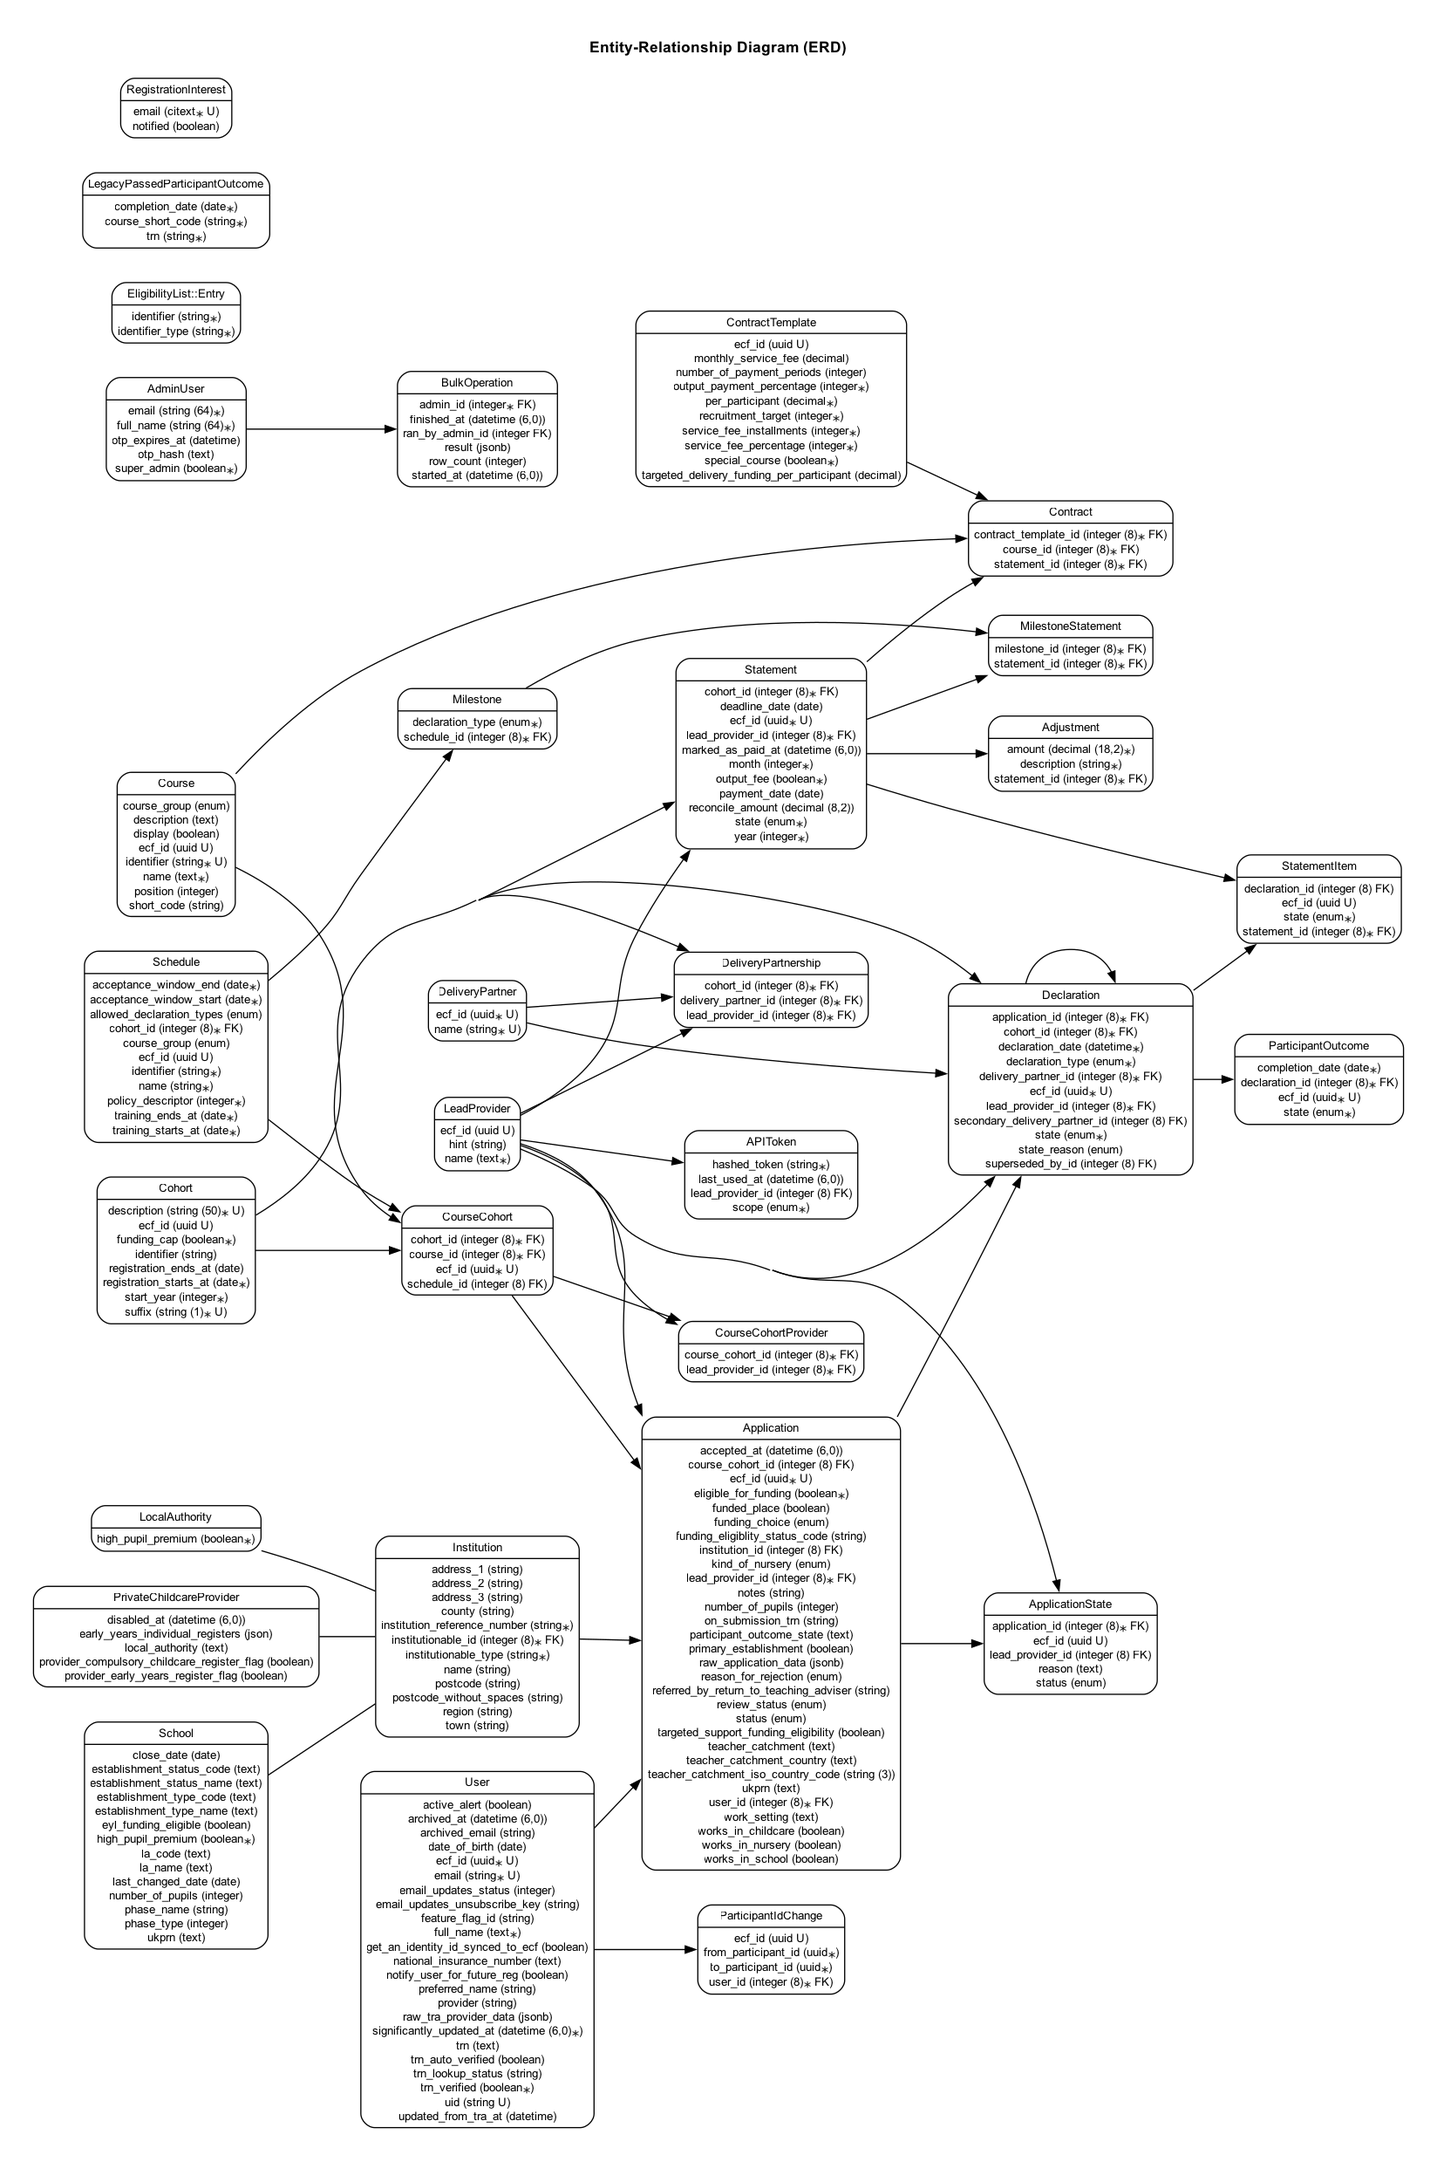
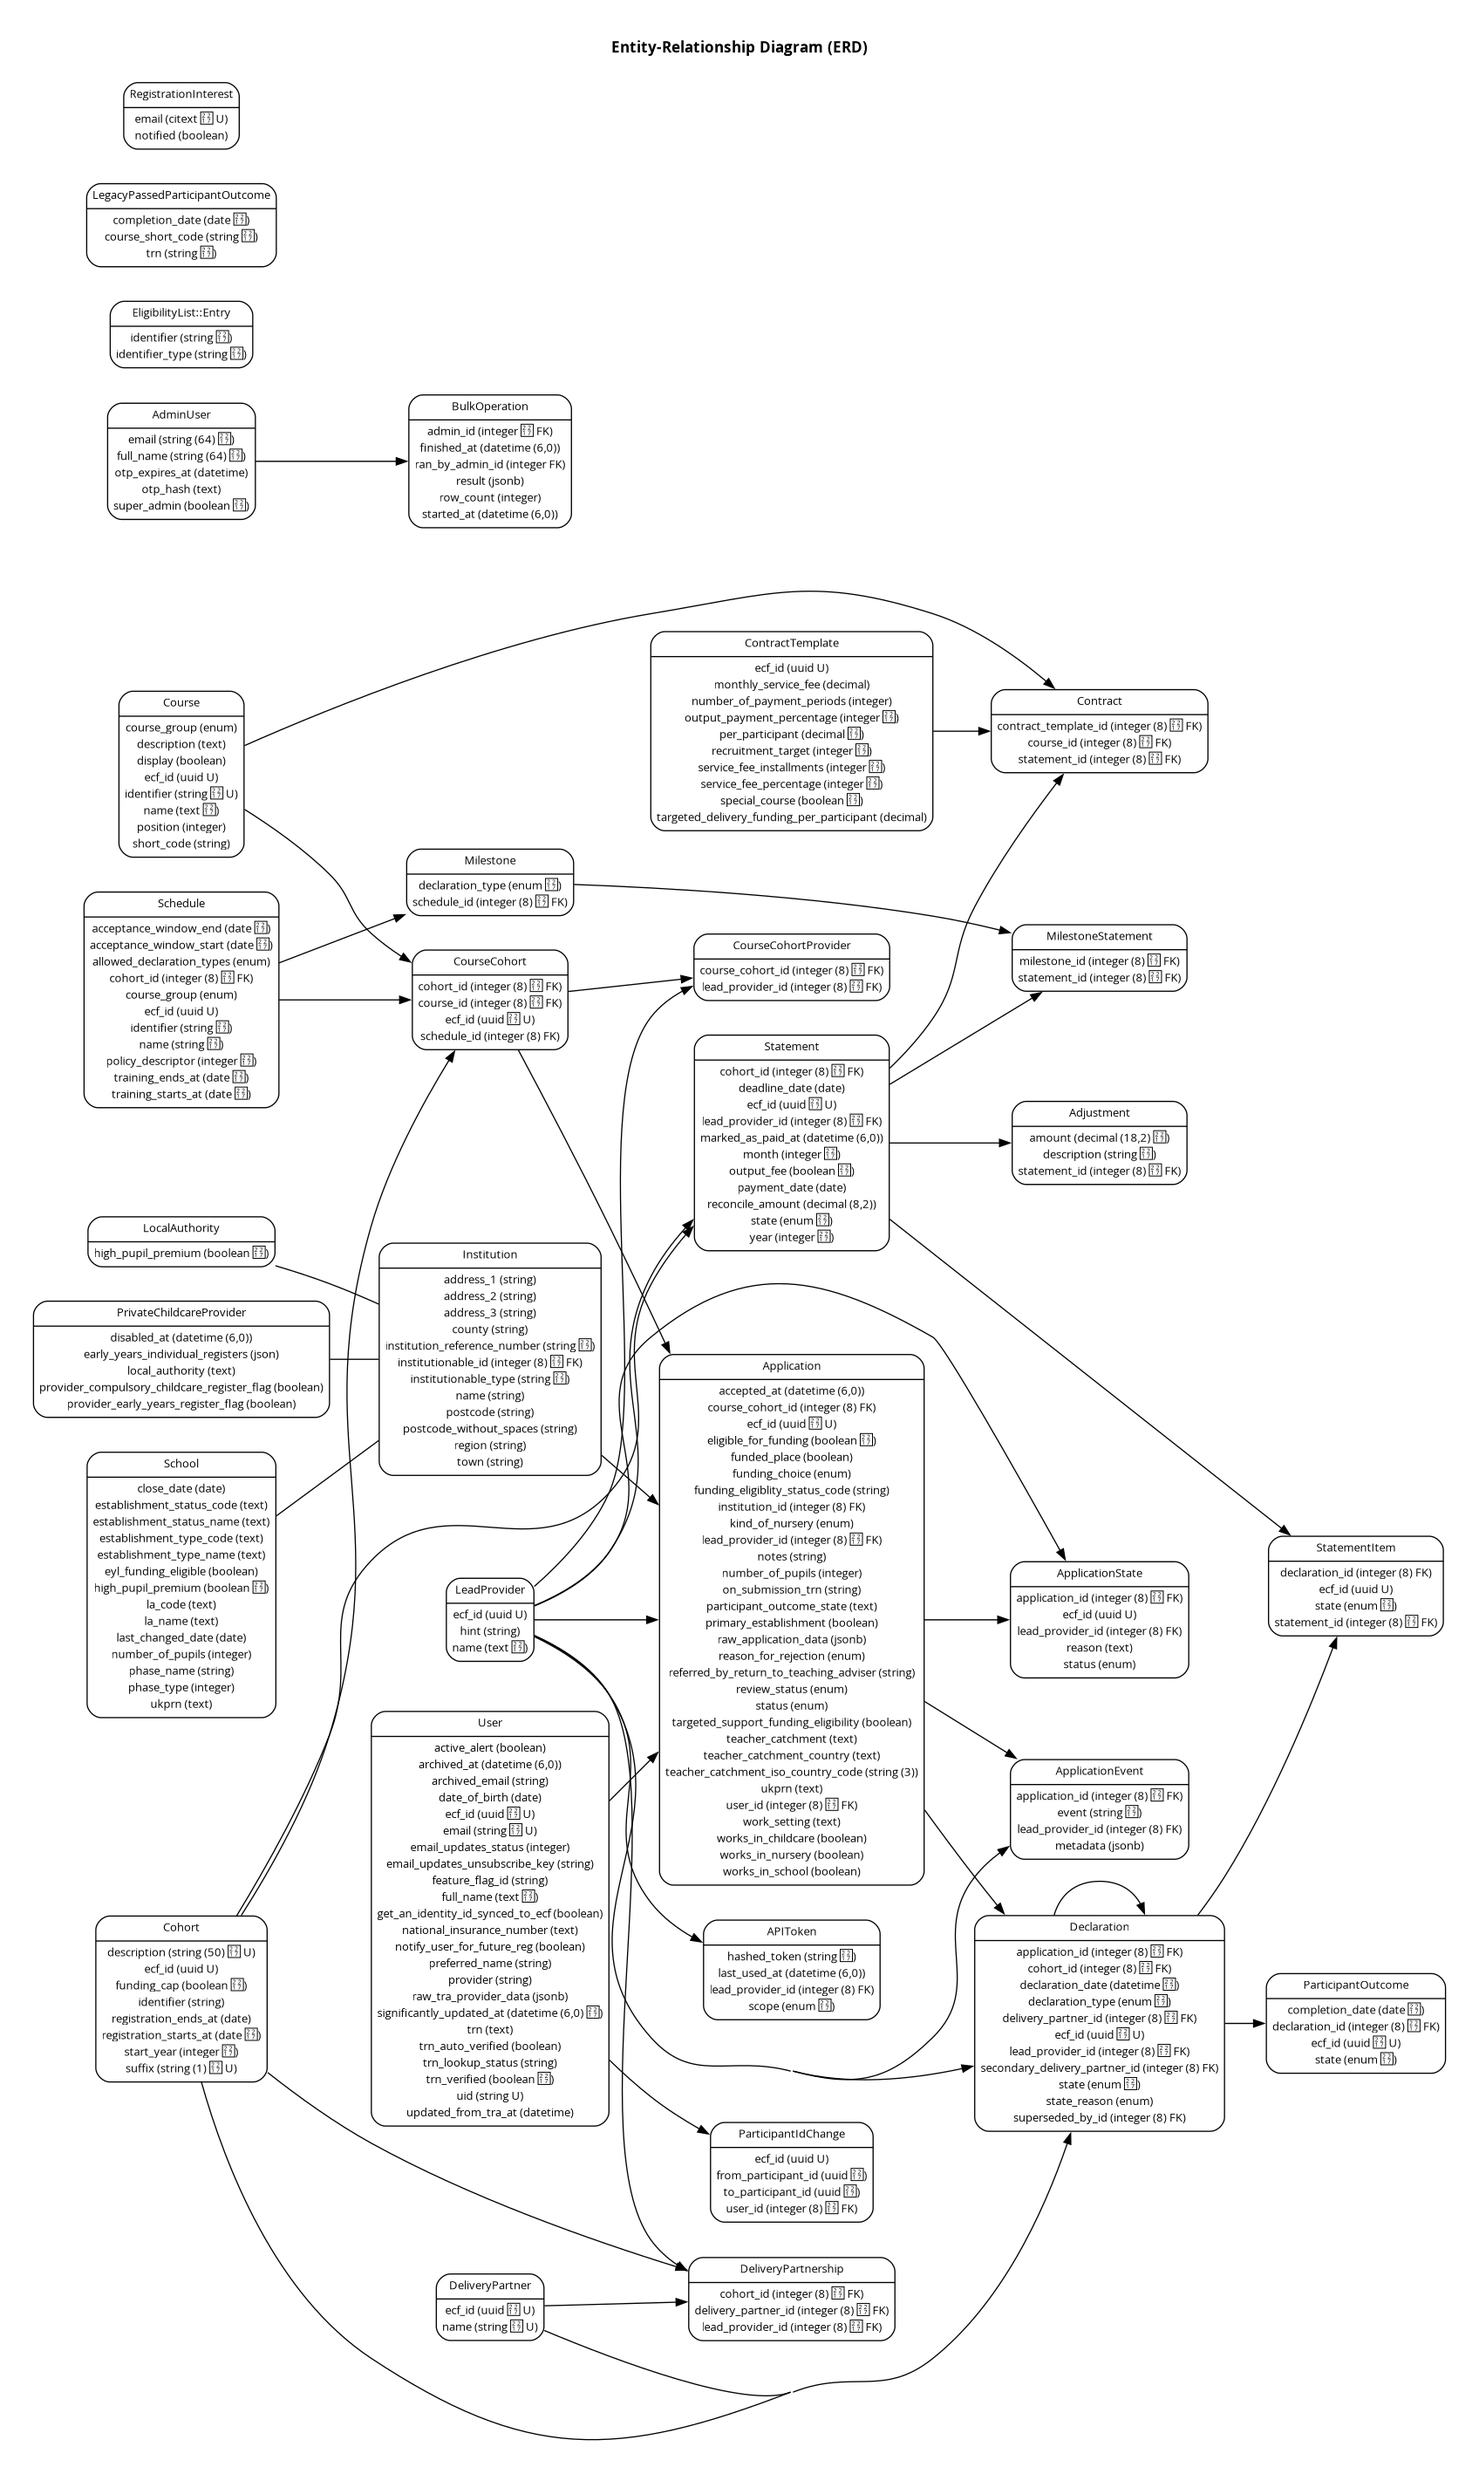
Create ApplicationEvent model and migration

diff --git a/db/schema.rb b/db/schema.rb
@@ -10,7 +10,7 @@
 #
 # It's strongly recommended that you check this file into your version control system.
 
-ActiveRecord::Schema[8.1].define(version: 2026_03_23_094136) do
+ActiveRecord::Schema[8.1].define(version: 2026_04_13_101619) do
   # These are extensions that must be enabled in order to support this database
   enable_extension "btree_gin"
   enable_extension "citext"
@@ -91,6 +91,19 @@ ActiveRecord::Schema[8.1].define(version: 2026_03_23_094136) do
     t.index ["hashed_token"], name: "index_api_tokens_on_hashed_token", unique: true
     t.index ["lead_provider_id"], name: "index_api_tokens_on_lead_provider_id"
     t.check_constraint "lead_provider_id IS NOT NULL AND scope = 'lead_provider'::api_token_scopes OR lead_provider_id IS NULL AND scope <> 'lead_provider'::api_token_scopes"
+  end
+
+  create_table "application_events", force: :cascade do |t|
+    t.bigint "application_id", null: false
+    t.datetime "created_at", null: false
+    t.string "event", null: false
+    t.bigint "lead_provider_id"
+    t.jsonb "metadata", default: {}
+    t.datetime "updated_at", null: false
+    t.index ["application_id"], name: "index_application_events_on_application_id"
+    t.index ["created_at"], name: "index_application_events_on_created_at"
+    t.index ["event"], name: "index_application_events_on_event"
+    t.index ["lead_provider_id"], name: "index_application_events_on_lead_provider_id"
   end
 
   create_table "application_states", force: :cascade do |t|
@@ -619,6 +632,8 @@ ActiveRecord::Schema[8.1].define(version: 2026_03_23_094136) do
   add_foreign_key "active_storage_variant_records", "active_storage_blobs", column: "blob_id"
   add_foreign_key "adjustments", "statements"
   add_foreign_key "api_tokens", "lead_providers"
+  add_foreign_key "application_events", "applications"
+  add_foreign_key "application_events", "lead_providers"
   add_foreign_key "application_states", "applications"
   add_foreign_key "application_states", "lead_providers"
   add_foreign_key "applications", "institutions"

diff --git a/spec/models/application_event_spec.rb b/spec/models/application_event_spec.rb
@@ -1,0 +1,56 @@
+require "rails_helper"
+
+RSpec.describe ApplicationEvent do
+  let(:application) { create(:application) }
+
+  subject(:application_event) { create(:application_event, application:) }
+
+  describe "relationships" do
+    it { is_expected.to belong_to(:application) }
+    it { is_expected.to belong_to(:lead_provider).optional }
+  end
+
+  describe "validations" do
+    it { is_expected.to validate_presence_of(:event) }
+
+    it "validates event format" do
+      event = build(:application_event, event: "invalid_event")
+      expect(event).not_to be_valid
+      expect(event.errors[:event]).to include("must start with 'StateChange::' or 'Notification::'")
+    end
+
+    it "accepts StateChange:: events" do
+      event = build(:application_event, event: "StateChange::Application::ACCEPTED")
+      expect(event).to be_valid
+    end
+
+    it "accepts Notification:: events" do
+      event = build(:application_event, event: "Notification::ApplicationSubmitted")
+      expect(event).to be_valid
+    end
+  end
+
+  describe "#status" do
+    it "returns the status for state change events" do
+      event = build(:application_event, event: "StateChange::Application::ACCEPTED")
+      expect(event.status).to eq("accepted")
+    end
+
+    it "returns nil for notification events" do
+      event = build(:application_event, event: "Notification::ApplicationSubmitted")
+      expect(event.status).to be_nil
+    end
+  end
+
+  describe "#reason" do
+    it "returns the reason from metadata" do
+      event = build(:application_event, metadata: { "reason" => "bereavement" })
+      expect(event.reason).to eq("bereavement")
+    end
+
+    it "returns nil when no reason in metadata" do
+      event = build(:application_event, metadata: {})
+      expect(event.reason).to be_nil
+    end
+  end
+end

diff --git a/app/models/application_event.rb b/app/models/application_event.rb
@@ -1,0 +1,33 @@
+class ApplicationEvent < ApplicationRecord
+  belongs_to :application
+  belongs_to :lead_provider, optional: true
+
+  STATE_CHANGE_PREFIX = "StateChange::"
+  NOTIFICATION_PREFIX = "Notification::"
+
+  validates :event, presence: true
+  validate :valid_event_format
+
+  scope :state_changes, -> { where("event LIKE ?", "#{STATE_CHANGE_PREFIX}%") }
+
+  def status
+    return unless event&.start_with?(STATE_CHANGE_PREFIX)
+
+    # for a string "StateChange::Application::DEFERRED"
+    # return the constant Application::DEFERRED
+    event.delete_prefix(STATE_CHANGE_PREFIX).constantize
+  end
+
+  def reason
+    metadata&.dig("reason")
+  end
+
+private
+
+  def valid_event_format
+    return if event.blank?
+    return if event.start_with?(STATE_CHANGE_PREFIX) || event.start_with?(NOTIFICATION_PREFIX)
+
+    errors.add(:event, "must start with '#{STATE_CHANGE_PREFIX}' or '#{NOTIFICATION_PREFIX}'")
+  end
+end

diff --git a/spec/factories/application_events.rb b/spec/factories/application_events.rb
@@ -1,0 +1,24 @@
+FactoryBot.define do
+  factory :application_event do
+    application
+    event { "StateChange::Application::ACCEPTED" }
+
+    trait :accepted do
+      event { "StateChange::Application::ACCEPTED" }
+    end
+
+    trait :started do
+      event { "StateChange::Application::STARTED" }
+    end
+
+    trait :withdrawn do
+      event { "StateChange::Application::WITHDRAWN" }
+      metadata { { "reason" => "other" } }
+    end
+
+    trait :deferred do
+      event { "StateChange::Application::DEFERRED" }
+      metadata { { "reason" => "other" } }
+    end
+  end
+end

diff --git a/db/migrate/20260413101619_create_application_events.rb b/db/migrate/20260413101619_create_application_events.rb
@@ -1,0 +1,14 @@
+class CreateApplicationEvents < ActiveRecord::Migration[8.1]
+  def change
+    create_table :application_events do |t|
+      t.references :application, null: false, foreign_key: true, index: true
+      t.references :lead_provider, foreign_key: true, index: true
+      t.string :event, null: false
+      t.jsonb :metadata, default: {}
+      t.timestamps
+    end
+
+    add_index :application_events, :event
+    add_index :application_events, :created_at
+  end
+end
